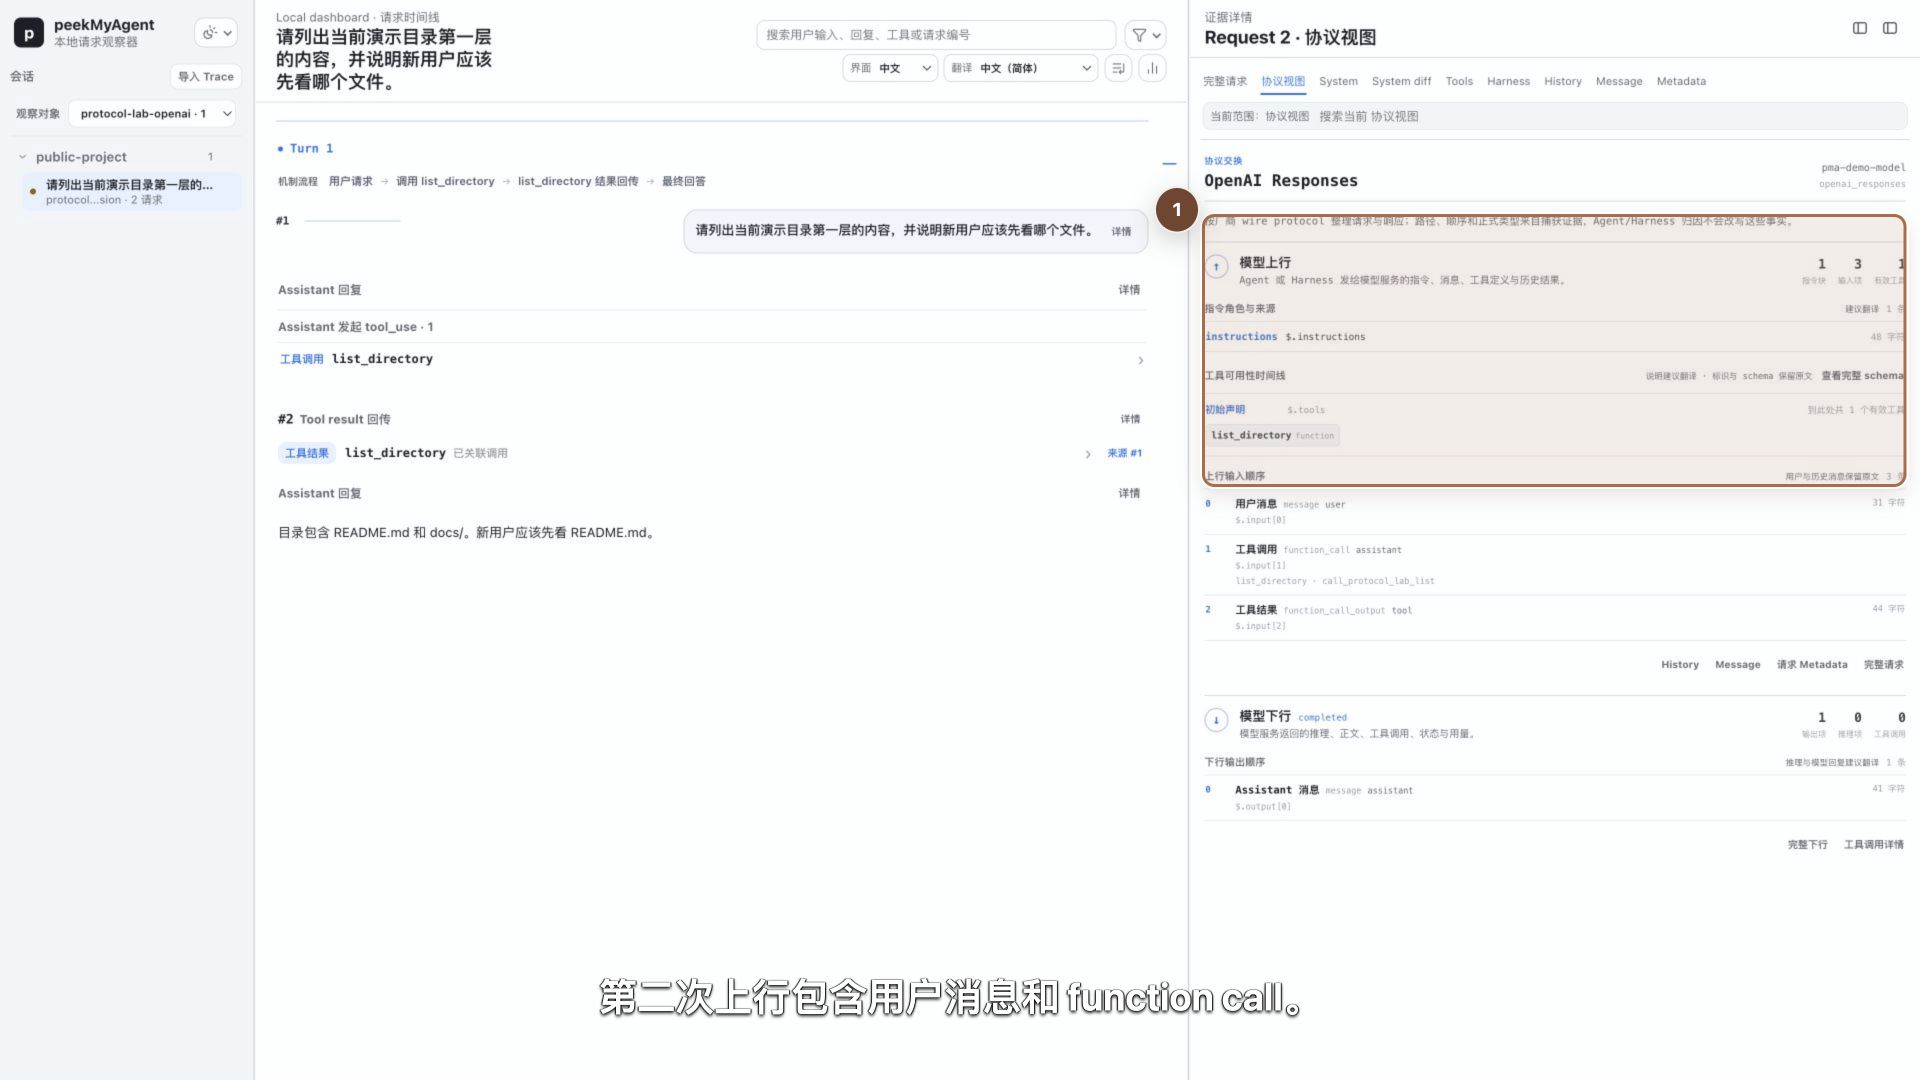
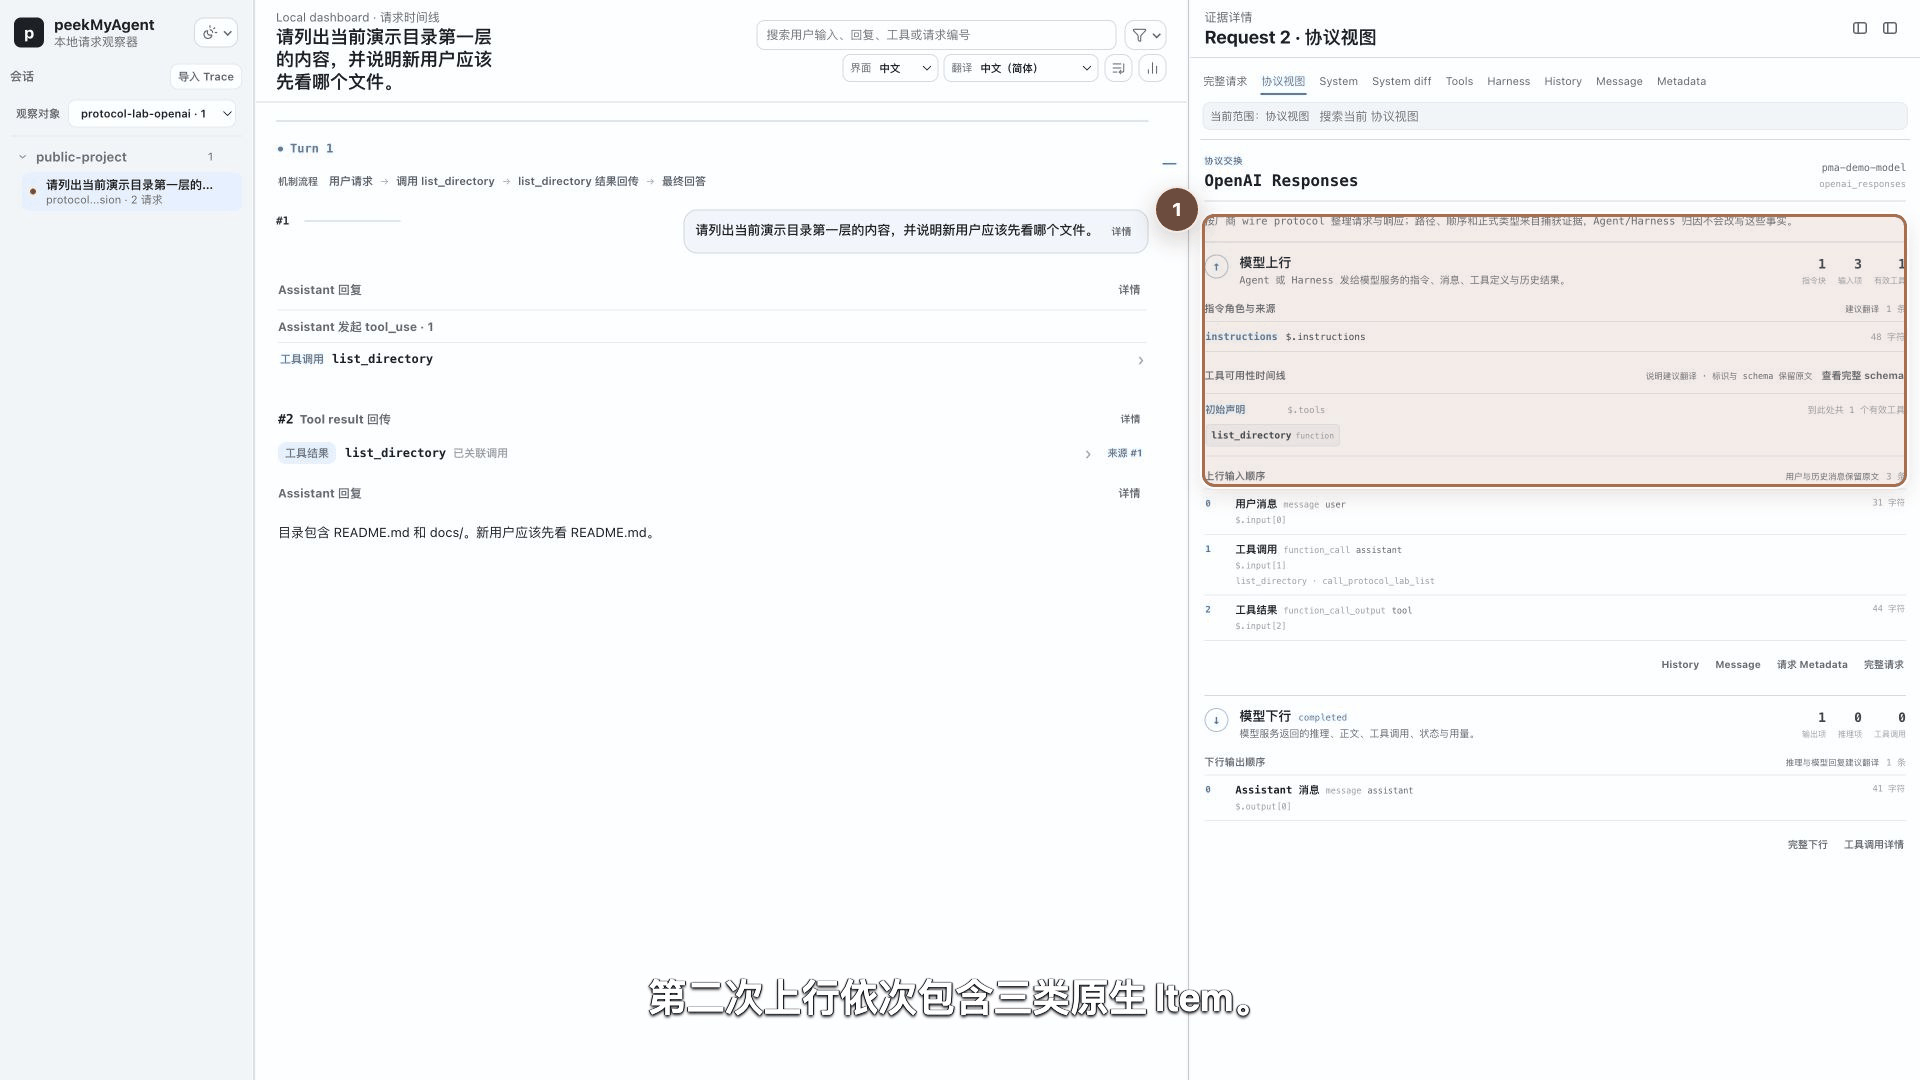
docs: clarify custom Harness protocol roles

diff --git a/assets/demo/source/custom-harness/narration.zh-CN.md b/assets/demo/source/custom-harness/narration.zh-CN.md
@@ -23,7 +23,7 @@
 | 01:32–01:53 | Request 1 Tools | 模型只能根据工具说明和 schema 提出调用 | 标签轻描边 → 证据编号 1 |
 | 01:53–02:14 | 点击 `list_directory` 调用 | 模型下行是结构化意图，不是直接访问磁盘 | 编号 1 → 2 交叉淡化 |
 | 02:14–02:37 | 点击工具结果 | Harness 执行后，结果通过下一次请求回到模型 | 编号 1 → 2 交叉淡化 |
-| 02:37–03:06 | Request 2 协议视图 | OpenAI Responses 的 user / function_call / function_call_output / final output 原生顺序 | 标签轻描边；编号 1 → 2 |
+| 02:37–03:06 | Request 2 协议视图 | OpenAI Responses 的 Item 顺序，以及 Viewer 如何补充语义角色 | 标签轻描边；编号 1 → 2 交叉淡化 |
 | 03:06–03:28 | Request 1 完整请求 | Raw 保留请求字段并明确记录 Header 脱敏 | 标签轻描边 → 编号 1 |
 | 03:28–03:58 | 切换 Anthropic Source 与 Claude 配色，查看 Request 2 协议 | 同一入口按 wire 事实识别 Anthropic；tool_use 和 tool_result 原生 role 不被摘要改写 | 标题轻描边；1 降权后出现 2 |
 | 03:58–04:11 | 结尾卡：通用桥的能力与限制 | 先定位协议问题，再决定是否开发专用 adapter | 13 秒；无编号 |
@@ -56,9 +56,9 @@
 
 Harness 在本地列出目录，再把结果封装成第二次请求的 `function_call_output`。中栏说明它已关联调用，并提供“来源 #1”；右栏保留 call id 和实际 `entries`。这样可以检查结果是否确实回给了模型，而不是只看到终端说工具成功。
 
-### 02:37–03:06　回到 OpenAI Responses 原生顺序
+### 02:37–03:06　区分 OpenAI Responses 原生 Item 与 Viewer 语义角色
 
-摘要仍不够时，协议视图明确写出 OpenAI Responses。第二次上行按顺序包含用户消息、assistant 的 `function_call`，以及 tool 角色的 `function_call_output`；下行才是最终 Assistant 消息。每一项都保留 JSON path，用来排查兼容层是否漏传或改错顺序。
+摘要仍不够时，协议视图明确写出 OpenAI Responses。第二次上行按顺序包含 `message`、`function_call` 和与 call id 匹配的 `function_call_output` 三类 Item；其中后两类在 wire 层没有原生 role，Viewer 为阅读统一补成 assistant 与 tool 语义标签。下行才是最终 Assistant `message`。每一项都保留 JSON path，用来排查兼容层是否漏传或改错顺序。
 
 ### 03:06–03:28　Raw 保留完整请求，也显示脱敏事实
 
